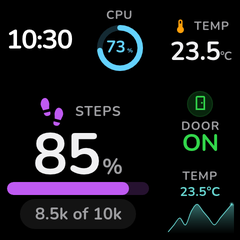
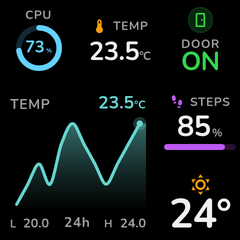
Added three row 1:2 layout

diff --git a/custom_components/geekmagic/frontend/src/geekmagic-panel.ts b/custom_components/geekmagic/frontend/src/geekmagic-panel.ts
@@ -548,6 +548,7 @@ export class GeekMagicPanel extends LitElement {
     .layout-icon.t-col { grid-template: 1fr / 1fr 1fr 1fr; }
     .layout-icon.t-row { grid-template: 1fr 1fr 1fr / 1fr; }
     .layout-icon.t-row-21 { grid-template: 1fr 1fr 1fr / 2fr 1fr; }
+    .layout-icon.t-row-12 { grid-template: 1fr 1fr 1fr / 1fr 2fr; }
     .layout-icon.hero { grid-template: 2fr 1fr / 1fr 1fr 1fr; }
     .layout-icon.hero > div:first-child { grid-column: 1 / -1; }
     .layout-icon.hero-simple { grid-template: 2fr 1fr / 1fr; }
@@ -2201,6 +2202,10 @@ export class GeekMagicPanel extends LitElement {
         cols = 2;
         rows = 3;
         break;
+      case "three_row_1_to_2":
+        cols = 2;
+        rows = 3;
+        break;
       default:
         cols = 2;
         rows = Math.ceil(slotCount / 2);
@@ -2259,7 +2264,7 @@ export class GeekMagicPanel extends LitElement {
       three_column: { cls: "t-col", cells: 3 },
       three_row: { cls: "t-row", cells: 3 },
       three_row_2_to_1: { cls: "t-row-21", cells: 6 },
-      three_row_2_1: { cls: "t-row-21", cells: 6 },
+      three_row_1_to_2: { cls: "t-row-12", cells: 6 },
       hero: { cls: "hero", cells: 4 },
       hero_simple: { cls: "hero-simple", cells: 2 },
       sidebar_left: { cls: "sb-l", cells: 4 },

diff --git a/custom_components/geekmagic/layouts/split.py b/custom_components/geekmagic/layouts/split.py
@@ -250,10 +250,10 @@ class ThreeRowLayout2To1(Layout):
     |   TOP L    | TOP R  |
     |  slot 0    | slot 1 |
     +------------+--------+
-    |  MIDDLE L  | MIDD R |
+    |  MIDDLE L  | MID R  |
     |  slot 2    | slot 3 |
     +------------+--------+
-    |  BOTTOM L  | BOTT R |
+    |  BOTTOM L  | BOT R  |
     |  slot 4    | slot 5 |
     +------------+--------+
     """
@@ -302,6 +302,74 @@ class ThreeRowLayout2To1(Layout):
                     index=i * 2 + 1,
                     rect=(
                         split_x + self.gap,
+                        y,
+                        self.width - self.padding,
+                        y + row_height,
+                    ),
+                )
+            )
+
+            y += row_height + self.gap
+
+class ThreeRowLayout1To2(Layout):
+    """Three row layout - narrow left (1/3), wide right (2/3).
+
+    +--------+------------+
+    | TOP L  | TOP R      |
+    | slot 0 | slot 1     |
+    +--------+------------+
+    | MID L  | MIDDLE R   |
+    | slot 2 | slot 3     |
+    +--------+------------+
+    | BOT L  | BOTTOM R   |
+    | slot 4 | slot 5     |
+    +--------+------------+
+    """
+
+    def __init__(
+        self,
+        ratios: tuple[float, float, float] = (0.33, 0.34, 0.33),
+        padding: int | None = None,
+        gap: int | None = None,
+    ) -> None:
+        """Initialize three-row layout.
+
+        Args:
+            ratios: Height ratios for each row (should sum to ~1.0)
+            padding: Padding around edges
+            gap: Gap between rows
+        """
+        self.ratios = ratios
+        super().__init__(padding=padding, gap=gap)
+
+    def _calculate_slots(self) -> None:
+        """Calculate row rectangles."""
+        self.slots = []
+
+        available_height = self.height - (2 * self.padding) - (2 * self.gap)
+        total_ratio = sum(self.ratios)
+        split_x = self.width // 3
+
+        y = self.padding
+        for i, ratio in enumerate(self.ratios):
+            row_height = int(available_height * (ratio / total_ratio))
+
+            self.slots.append(
+                Slot(
+                    index=i * 2,
+                    rect=(
+                        self.padding,
+                        y,
+                        (split_x * 2) - self.padding,
+                        y + row_height,
+                    ),
+                )
+            )
+            self.slots.append(
+                Slot(
+                    index=i * 2 + 1,
+                    rect=(
+                        (split_x * 2) + self.gap,
                         y,
                         self.width - self.padding,
                         y + row_height,

diff --git a/custom_components/geekmagic/preview.py b/custom_components/geekmagic/preview.py
@@ -27,6 +27,7 @@ from .const import (
     LAYOUT_THREE_COLUMN,
     LAYOUT_THREE_ROW,
     LAYOUT_THREE_ROW_2_TO_1,
+    LAYOUT_THREE_ROW_1_TO_2,
 )
 from .layouts.corner_hero import HeroCornerBL, HeroCornerBR, HeroCornerTL, HeroCornerTR
 from .layouts.grid import Grid2x2, Grid2x3, Grid3x2, Grid3x3
@@ -40,6 +41,7 @@ from .layouts.split import (
     ThreeColumnLayout,
     ThreeRowLayout,
     ThreeRowLayout2To1,
+    ThreeRowLayout1To2,
 )
 from .renderer import Renderer
 from .widgets import WIDGET_CLASSES
@@ -62,6 +64,7 @@ LAYOUT_CLASSES = {
     LAYOUT_THREE_COLUMN: ThreeColumnLayout,
     LAYOUT_THREE_ROW: ThreeRowLayout,
     LAYOUT_THREE_ROW_2_TO_1: ThreeRowLayout2To1,
+    LAYOUT_THREE_ROW_1_TO_2: ThreeRowLayout1To2,
     LAYOUT_SIDEBAR_LEFT: SidebarLeft,
     LAYOUT_SIDEBAR_RIGHT: SidebarRight,
     LAYOUT_HERO_TL: HeroCornerTL,

diff --git a/custom_components/geekmagic/coordinator.py b/custom_components/geekmagic/coordinator.py
@@ -57,6 +57,7 @@ from .const import (
     LAYOUT_THREE_COLUMN,
     LAYOUT_THREE_ROW,
     LAYOUT_THREE_ROW_2_TO_1,
+    LAYOUT_THREE_ROW_1_TO_2,
     MAX_BACKOFF_MULTIPLIER,
     MAX_IMAGE_SIZE,
     THEME_WATCHOS,
@@ -77,6 +78,7 @@ from .layouts.split import (
     ThreeColumnLayout,
     ThreeRowLayout,
     ThreeRowLayout2To1,
+    ThreeRowLayout1To2,
 )
 from .models import brightness_from_percent, brightness_to_percent
 from .renderer import Renderer
@@ -127,6 +129,7 @@ LAYOUT_CLASSES = {
     LAYOUT_THREE_COLUMN: ThreeColumnLayout,
     LAYOUT_THREE_ROW: ThreeRowLayout,
     LAYOUT_THREE_ROW_2_TO_1: ThreeRowLayout2To1,
+    LAYOUT_THREE_ROW_1_TO_2: ThreeRowLayout1To2,
     LAYOUT_SIDEBAR_LEFT: SidebarLeft,
     LAYOUT_SIDEBAR_RIGHT: SidebarRight,
     LAYOUT_HERO_TL: HeroCornerTL,

diff --git a/custom_components/geekmagic/const.py b/custom_components/geekmagic/const.py
@@ -116,6 +116,7 @@ LAYOUT_SPLIT_V = "split_vertical"  # Stacked (top/bottom)
 LAYOUT_THREE_COLUMN = "three_column"
 LAYOUT_THREE_ROW = "three_row"
 LAYOUT_THREE_ROW_2_TO_1 = "three_row_2_to_1"  # three rows, split 2:1
+LAYOUT_THREE_ROW_1_TO_2 = "three_row_1_to_2"  # three rows, split 1:2
 LAYOUT_SPLIT_H_1_2 = "split_h_1_2"  # Narrow left (1/3), wide right (2/3)
 LAYOUT_SPLIT_H_2_1 = "split_h_2_1"  # Wide left (2/3), narrow right (1/3)
 LAYOUT_SIDEBAR_LEFT = "sidebar_left"  # Wide left + 3 right rows
@@ -153,6 +154,7 @@ LAYOUT_SLOT_COUNTS = {
     LAYOUT_THREE_COLUMN: 3,
     LAYOUT_THREE_ROW: 3,
     LAYOUT_THREE_ROW_2_TO_1: 6,
+    LAYOUT_THREE_ROW_1_TO_2: 6,
     LAYOUT_SPLIT_H_1_2: 2,
     LAYOUT_SPLIT_H_2_1: 2,
     LAYOUT_SIDEBAR_LEFT: 4,

diff --git a/scripts/generate_samples.py b/scripts/generate_samples.py
@@ -42,6 +42,7 @@ from custom_components.geekmagic.layouts.split import (
     ThreeColumnLayout,
     ThreeRowLayout,
     ThreeRowLayout2To1,
+    ThreeRowLayout1To2,
 )
 from custom_components.geekmagic.renderer import Renderer
 from custom_components.geekmagic.widgets import (
@@ -2539,6 +2540,7 @@ def generate_layout_samples(renderer: Renderer, output_dir: Path) -> None:
         ("three_column", ThreeColumnLayout()),
         ("three_row", ThreeRowLayout()),
         ("three_row_2_1", ThreeRowLayout2To1()),
+        ("three_row_1_2", ThreeRowLayout1To2()),
         ("hero", HeroLayout()),
         ("hero_simple", HeroSimpleLayout()),
         ("sidebar_left", SidebarLeft()),
